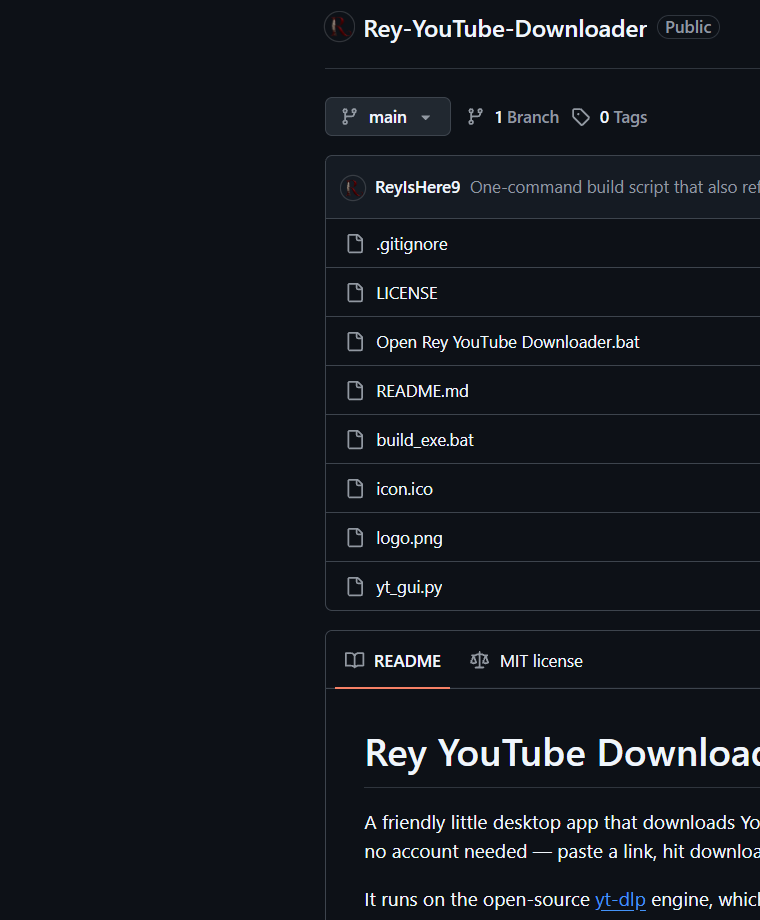
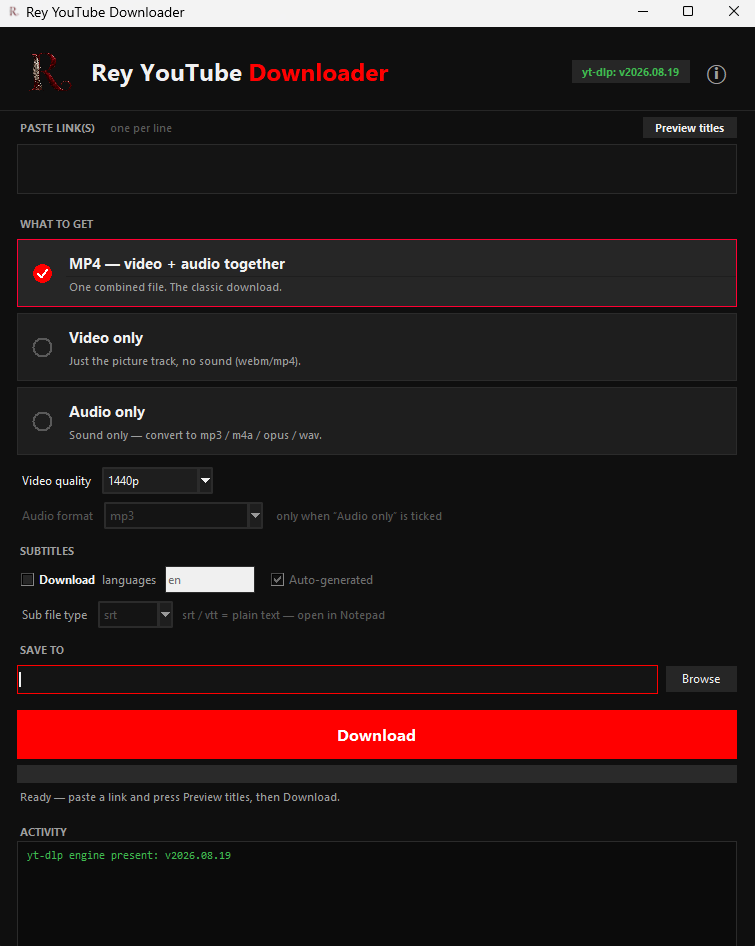
Fix README screenshots and image sizing

diff --git a/README.md b/README.md
@@ -8,9 +8,13 @@ It runs on the open-source [yt-dlp](https://github.com/yt-dlp/yt-dlp) engine,
 which does all the heavy lifting behind the scenes, and gives it a simple,
 dark YouTube-style interface.
 
-![Rey YouTube Downloader logo](logo.png)
+<p align="center">
+  <img src="logo.png" width="220" alt="Rey YouTube Downloader logo">
+</p>
 
-![Rey YouTube Downloader screenshot](screenshot.png)
+<p align="center">
+  <img src="screenshot.png" width="640" alt="Rey YouTube Downloader screenshot">
+</p>
 
 ---
 
